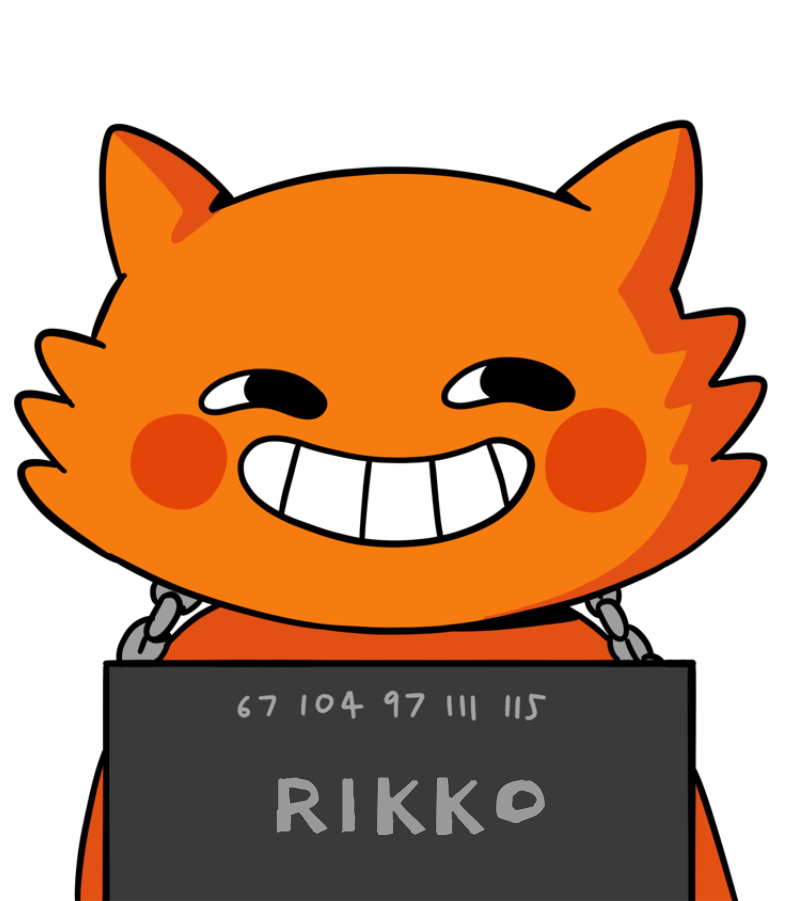
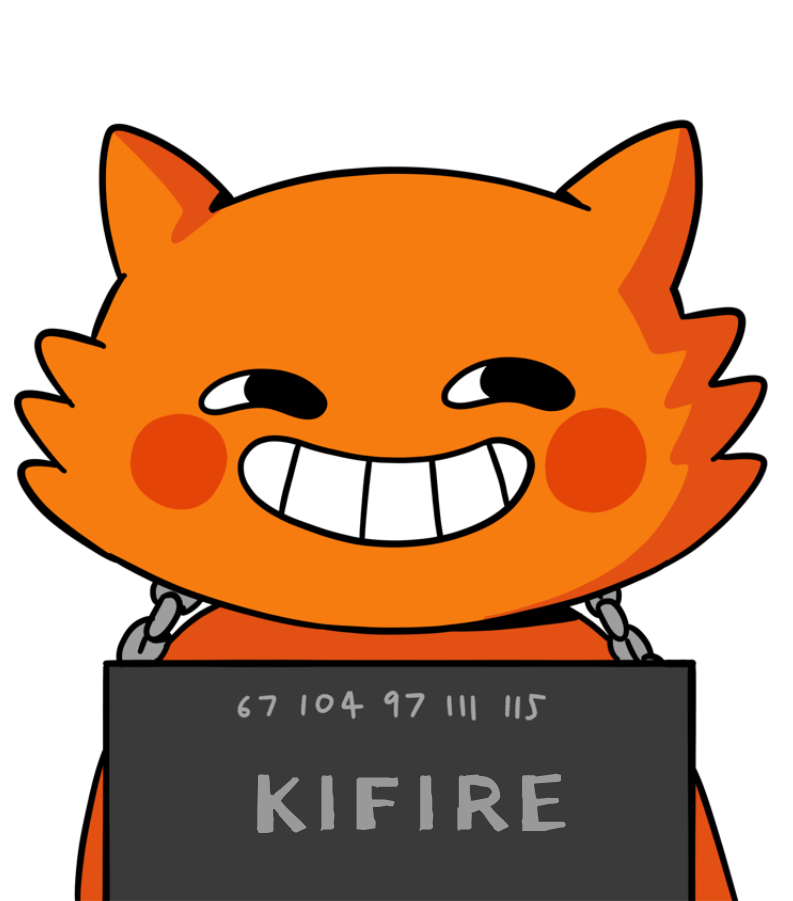
1

Changed region(s): [[0.3026, 0.8391, 0.7264, 0.9323]]

diff --git a/index.html b/index.html
@@ -3,9 +3,9 @@
 
 <head>
   <meta charset="utf-8">
-  <title>The Chaotic Cat | $RIKKO</title>
+  <title>The Chaotic Cat | $KIFIRE</title>
   <meta content="width=device-width, initial-scale=1" name="viewport">
-  <meta content="The Ginger Cat" name="$RIKKO">
+  <meta content="The Ginger Cat" name="$KIFIRE">
   <link href="css/normalize.css" rel="stylesheet" type="text/css">
   <link href="css/style.css" rel="stylesheet" type="text/css">
   <link href="css/bstyle.css" rel="stylesheet" type="text/css">
@@ -28,7 +28,7 @@ font-family: 'Super Squad';
   <div class="section_hero">
     <a data-w-id="4e8d95c4-39d8-cf17-89f1-7575d3437792"
       style="-webkit-transform:translate3d(0, 0, 0) scale3d(1, 1, 1) rotateX(0) rotateY(0) rotateZ(-4deg) skew(0, 0);-moz-transform:translate3d(0, 0, 0) scale3d(1, 1, 1) rotateX(0) rotateY(0) rotateZ(-4deg) skew(0, 0);-ms-transform:translate3d(0, 0, 0) scale3d(1, 1, 1) rotateX(0) rotateY(0) rotateZ(-4deg) skew(0, 0);transform:translate3d(0, 0, 0) scale3d(1, 1, 1) rotateX(0) rotateY(0) rotateZ(-4deg) skew(0, 0)"
-      href="https://pump.fun/JTSFbBLbUeCCaL564vBUsNtyUtuXv8xW7ph3La8jump" class="buy w-button">BUY $RIKKO</a>
+      href="https://pump.fun/pcS6px7mVfPTGkkfDJDp4i4CJQVf4jmEodferUN6ump" class="buy w-button">BUY $KIFIRE</a>
     <img src="images/liane_left.svg" loading="lazy" alt="" class="liane_left">
     <img src="images/liane_right.svg" loading="lazy" alt="" class="laine_right">
     <div class="grass_hero">
@@ -50,15 +50,15 @@ font-family: 'Super Squad';
           dominant-baseline: central;
         }
       </style>
-      <text class="rico-text" x="50%" y="35%">RIKKO</text>
+      <text class="rico-text" x="50%" y="35%">KIFIRE</text>
     </svg>
 
 
     <img src="images/rico-h.png" loading="lazy" sizes="100vw" srcset="images/rico-h.png 500w, images/rico-h.png 793w"
       alt="" class="chara_hero">
     <div class="links_hero">
-      <a href="https://t.me/rikkocoinsol" class="tg w-button" target="blank"></a>
-      <a href="https://x.com/rikkocoinsol
+      <a href="https://t.me/FireKitty_Portal" class="tg w-button" target="blank"></a>
+      <a href="https://x.com/FireKittySOL
 " class="x w-button" target="blank"></a>
 
     </div>
@@ -66,8 +66,8 @@ font-family: 'Super Squad';
   <div class="separator_ca">
     <div class="block_ca">
       <div class="ca_in">
-        <div class="ca">JTSFbBLbUeCCaL564vBUsNtyUtuXv8xW7ph3La8jump</div>
-        <div class="ca_mobile">JTSFbBLbUeCCaL564vBUsNtyUtuXv8xW7ph3La8jump</div>
+        <div class="ca">pcS6px7mVfPTGkkfDJDp4i4CJQVf4jmEodferUN6ump</div>
+        <div class="ca_mobile">pcS6px7mVfPTGkkfDJDp4i4CJQVf4jmEodferUN6ump</div>
         <a href="#" class="copy w-button">COPY</a>
       </div>
     </div>
@@ -80,7 +80,7 @@ font-family: 'Super Squad';
   </div>
   <div class="section_about_bottom">
     <div class="block_para">
-      <p class="paragraph">Yeah, I’m RIKKO the cat. The troublemaker, the chaos starter, the one who keeps things
+      <p class="paragraph">Yeah, I’m KIFIRE the cat. The troublemaker, the chaos starter, the one who keeps things
         interesting. I don’t just cause a
         scene—I own it. But don’t let the mischief fool you—I’ve got big plans, and they’re just getting started. You’re
         here
@@ -97,7 +97,7 @@ font-family: 'Super Squad';
     <div class="block_tokenomics">
       <div class="tokenomics_in">
         <div class="tokenomics_details">
-          <div class="h2">TOTAL SUPPLY = 1 BILLION $RIKKO</div>
+          <div class="h2">TOTAL SUPPLY = 1 BILLION $KIFIRE</div>
         </div>
         <div class="tokenomics_details">
           <div class="h2">MINT = REVOKED</div>
@@ -113,10 +113,10 @@ font-family: 'Super Squad';
       class="chara_diamond">
   </div>
   <div class="section_join">
-    <div class="h1 h1_3">RIKKO THE<br>CHAOTIC CAT</div>
+    <div class="h1 h1_3">KIFIRE THE<br>CHAOTIC CAT</div>
     <div class="block_links">
-      <a href="https://t.me/rikkocoinsol" class="tg w-button" target="blank"></a>
-      <a href="https://x.com/rikkocoinsol" class="x w-button" target="blank"></a>
+      <a href="https://t.me/FireKitty_Portal" class="tg w-button" target="blank"></a>
+      <a href="https://x.com/FireKittySOL" class="x w-button" target="blank"></a>
 
     </div><img src="images/rico.png" loading="lazy" sizes="(max-width: 479px) 90vw, 410.7749938964844px"
       srcset="images/rico.png 500w, images/rico.png 800w" alt="" class="chara_footer">
